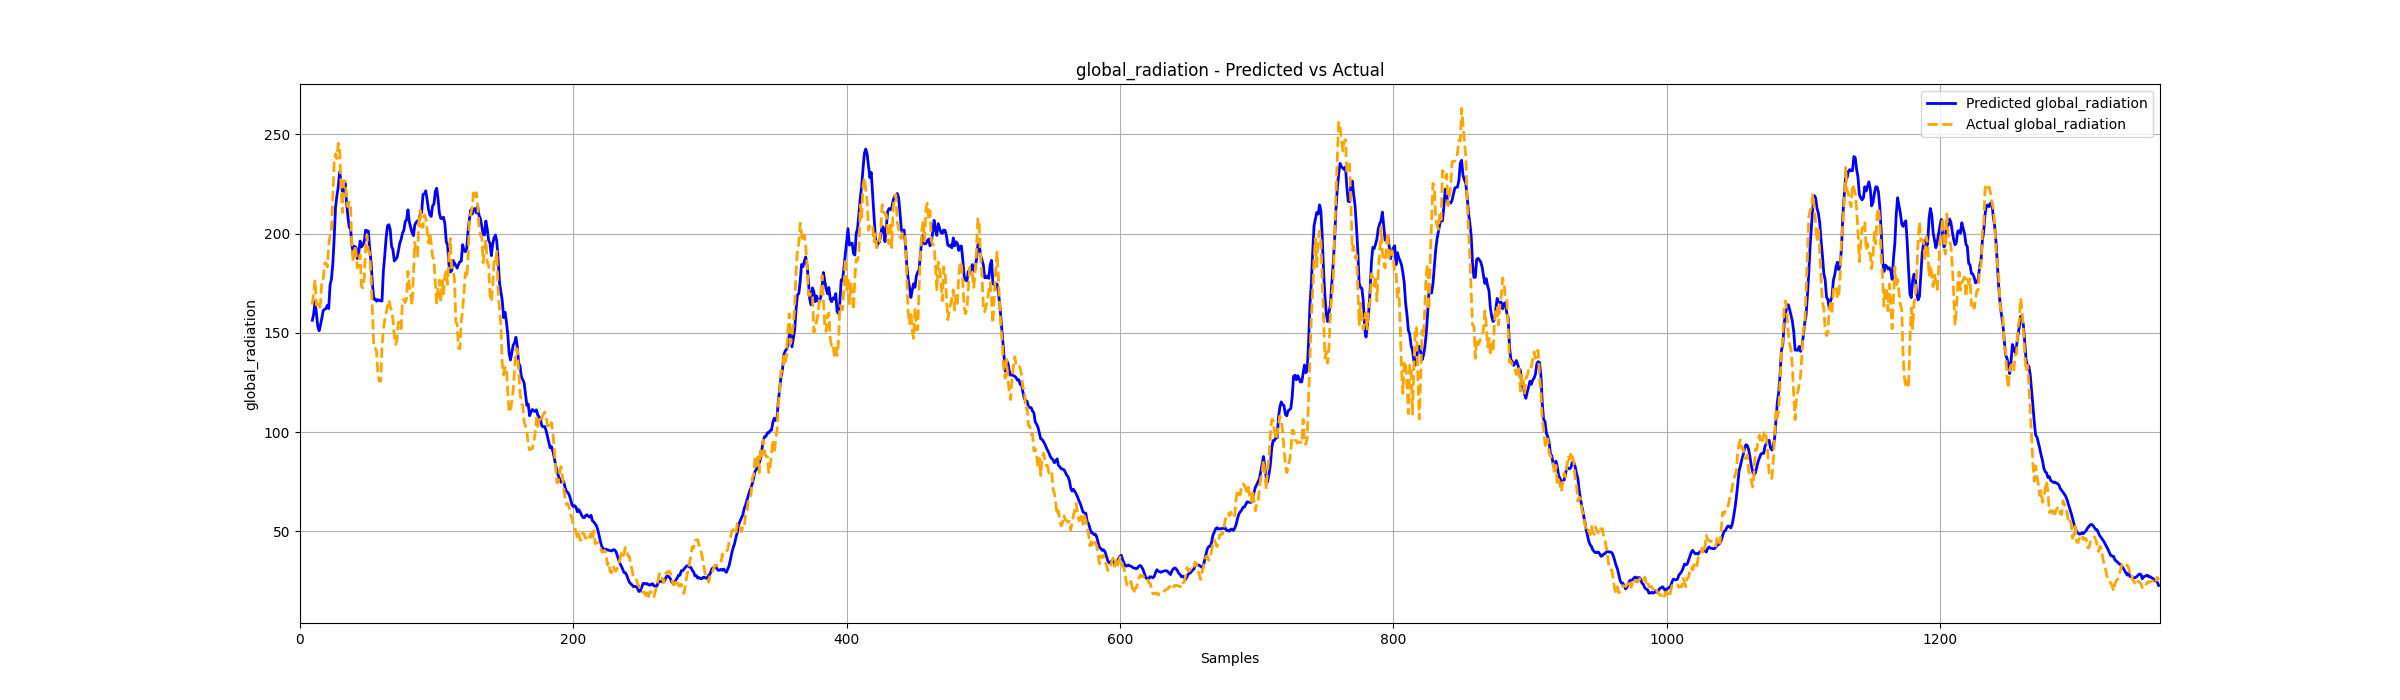
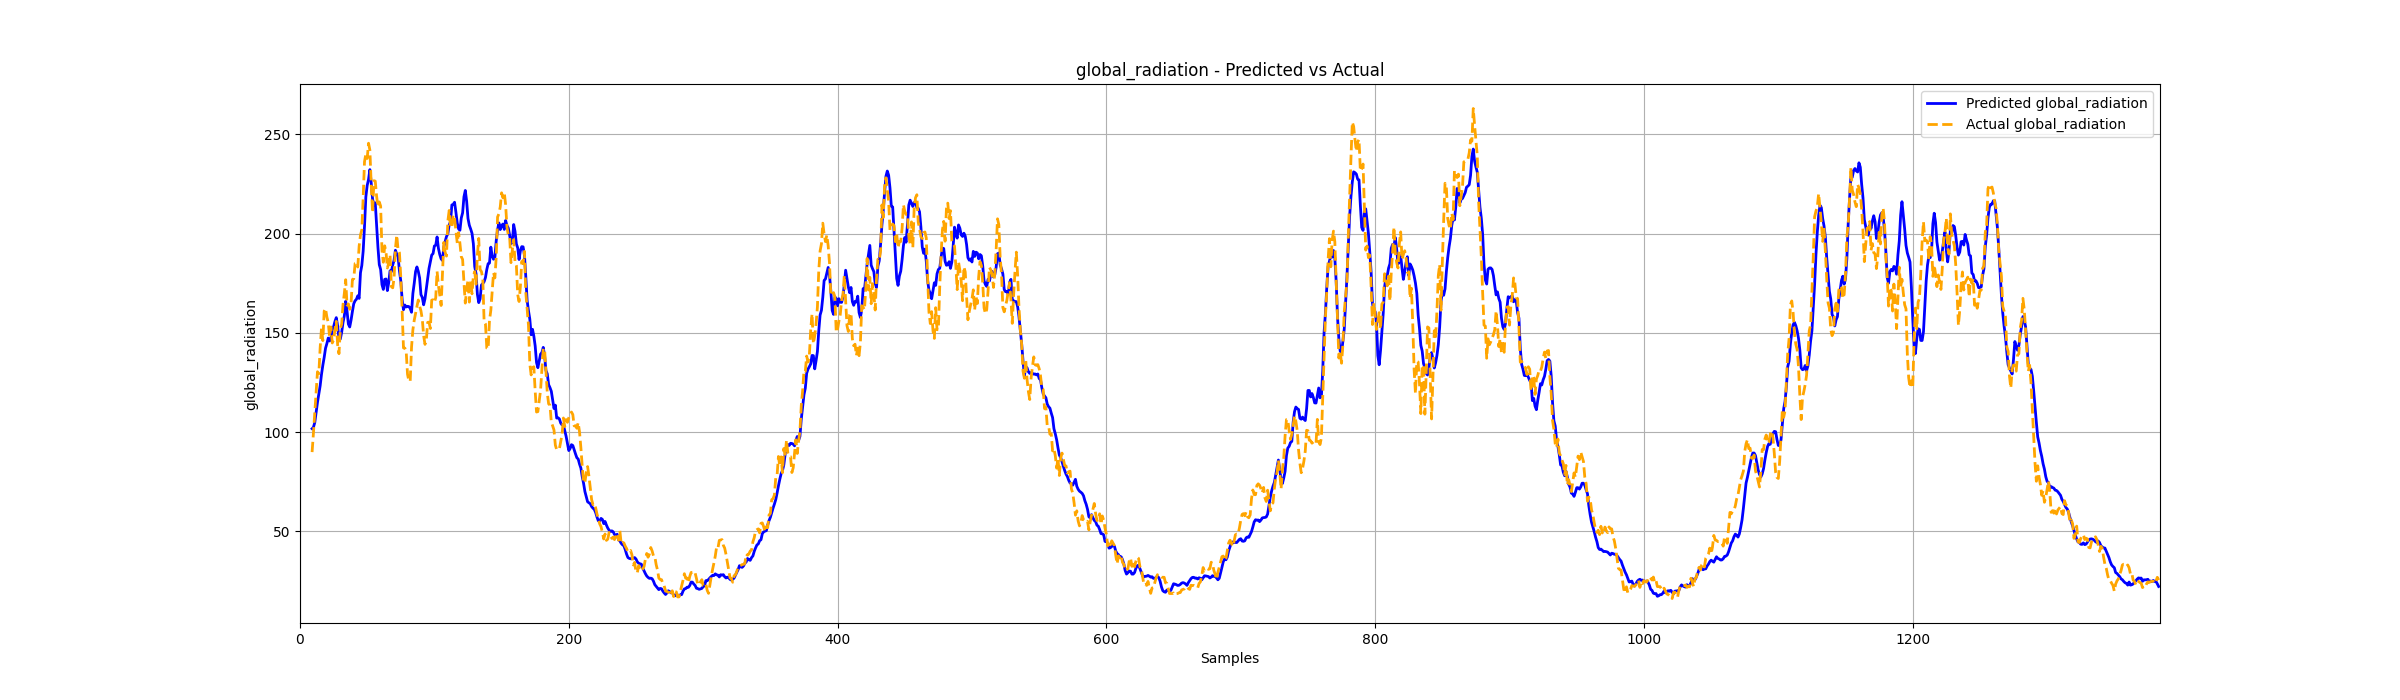
wp - add the two other ways lstm with transformer and the random forest

diff --git a/lstm_with_transformer.py b/lstm_with_transformer.py
@@ -49,6 +49,7 @@ def train_hybrid_model(trainloader,evalloader, testloader, input_dim, hidden_dim
     print(f"You are using: {device}")
     list_train_loss = []
     list_eval_loss = []
+    detection_rates = []
 
     # Initialize model
     model = HybridModel(input_dim=input_dim, hidden_dim=hidden_dim, output_dim=output_dim, num_layers=num_layers, dropout=dropout, num_heads=num_heads, transformer_hidden_dim=transformer_hidden_dim).to(device)
@@ -79,15 +80,40 @@ def train_hybrid_model(trainloader,evalloader, testloader, input_dim, hidden_dim
 
         with torch.no_grad():
             test_loss = 0.0
+            all_outputs = []
+            all_labels = []
             for inputs, labels in evalloader:
                 inputs, labels = inputs.to(device), labels.to(device)
                 outputs = model(inputs)
                 loss = criterion(outputs, labels)
                 test_loss += loss.item()
+                all_outputs.append(outputs.cpu())
+                all_labels.append(labels.cpu())
+
 
             eval_loss = test_loss / len(evalloader.dataset)
             list_eval_loss.append(eval_loss)
-        print(f"Epoch {epoch+1}/{num_epochs}, Train Loss: {epoch_loss:.4f}, Validation Loss: {eval_loss:.4f}")
+
+        # Calculate metrics
+        predictions = torch.cat(all_outputs)
+        actuals = torch.cat(all_labels)
+
+        # Inverse transform predictions and actuals
+        predictions_np = predictions.numpy()
+        actuals_np = actuals.numpy()
+        
+        predictions_inv = scaler.inverse_transform(predictions_np)
+        actuals_inv = scaler.inverse_transform(actuals_np)
+
+        # Convert the inverse-transformed data back to PyTorch tensors
+        predictions_inv_tensor = torch.tensor(predictions_inv)
+        actuals_inv_tensor = torch.tensor(actuals_inv)
+
+        detection_rate, direction_of_error = calculate_metrics(predictions_inv_tensor, actuals_inv_tensor)
+        detection_rates.append(detection_rate)
+
+        print(f"Epoch {epoch+1}/{num_epochs}, Train Loss: {epoch_loss:.4f}, Validation Loss: {eval_loss:.4f} Detection Rate of Extremes: {detection_rate:.4f}")
+
 
     # test model
     model.eval()
@@ -108,18 +134,26 @@ def train_hybrid_model(trainloader,evalloader, testloader, input_dim, hidden_dim
     actuals_inv = scaler.inverse_transform(actuals)
     
     torch.save(model.state_dict(), "weather_lstm_with_transformer.pth")
+    epochs = list(range(1, num_epochs + 1))
+    plot_metrics(epochs, 2, detection_rates)
+    
     plot_prediction_vs_actual(predictions_inv, actuals_inv, features, save_dir="lstm_with_transformer_plots")
+    plot_prediction_vs_actual(predictions_inv, actuals_inv, features, save_dir="lstm_with_transformer_plots", apply_mean=True)
     plot_losses(loss_val=list_eval_loss, loss_train=list_train_loss, save_dir="lstm_with_transformer_plots")
+
+    label_columns =['cloud_cover', 'sunshine', 'global_radiation', 'max_temp', 'mean_temp', 'min_temp', 'pressure']
+    plot_error(predictions, actuals,label_columns, save_dir='lstm_with_transformer_plots')
+
 
 # Parameters
 batch_size = 64
-seq_length = 30
+seq_length = 7
 hidden_dim = 256
 num_layers = 2
 dropout = 0.2
 num_heads = 8
 transformer_hidden_dim = 72
 
-trainloader,evalloader, testloader, scaler, features, input_dim, seq_length = load_weather_data('london_weather.csv', batch_size, seq_length)
+trainloader,evalloader, testloader, scaler, features, input_dim, seq_length = load_weather_data_transformer('london_weather.csv', batch_size, seq_length)
 output_dim = len(features)
 train_hybrid_model(trainloader,evalloader, testloader, input_dim, hidden_dim, output_dim, num_layers, dropout, seq_length, num_heads, transformer_hidden_dim)

diff --git a/Random_forest.py b/Random_forest.py
@@ -3,52 +3,57 @@ from sklearn.model_selection import train_test_split
 from sklearn.metrics import mean_squared_error, r2_score
 import pandas as pd
 import matplotlib.pyplot as plt
+import numpy as np
 from utils import plot_prediction_vs_actual
 
+# Load and preprocess the data
+data = pd.read_csv('london_weather.csv', parse_dates=['date'])
+data.fillna({
+    "cloud_cover": data["cloud_cover"].mode()[0],
+    "global_radiation": data["global_radiation"].mean(),
+    "mean_temp": data["mean_temp"].mean()
+}, inplace=True)
+data.dropna(inplace=True)
+data['date'] = pd.to_datetime(data['date'])
 
-# Load and clean data
-data = pd.read_csv('london_weather.csv')
-data = data.dropna(axis=0)
+# Select relevant features
+features = ['cloud_cover', 'sunshine', 'global_radiation', 'max_temp', 'mean_temp', 'min_temp', 'pressure']
+data = data[features]
 
-# Set the date as input (x)
-x = data[['date']]  # Assuming the 'date' column is numerical or encoded as integers
+# Calculate the indices for splitting (before creating sequences)
+total_len = len(data)
+train_size = int(total_len * 0.85)  # First 85% for training
 
-# Set the weather features as targets (y)
-features = ['cloud_cover', 'sunshine', 'global_radiation', 'max_temp', 'mean_temp', 'min_temp', 'precipitation', 'pressure', 'snow_depth']
-y = data[features]
+# Split the data
+train_data = data[:train_size].values
+test_data = data[train_size:].values
 
-# Split into training and testing sets
-x_train, x_test, y_train, y_test = train_test_split(x, y, train_size=0.70, random_state=0)
+# Create sequences after splitting
+def create_sequences(data, seq_length):
+    X, y = [], []
+    for i in range(len(data) - seq_length):
+        X.append(data[i:i + seq_length].flatten())  # Flatten the sequences for RandomForest input
+        y.append(data[i + seq_length])  # Predict the next timestep's features
+    return np.array(X), np.array(y)
+
+# Sequence length (days)
+sequence_length = 7
+
+X_train, y_train = create_sequences(train_data, sequence_length)
+X_test, y_test = create_sequences(test_data, sequence_length)
 
 # Train a multi-output RandomForestRegressor
 clf = RandomForestRegressor(random_state=0)
-clf.fit(x_train, y_train)
+clf.fit(X_train, y_train)
 
 # Make predictions
-y_pred = clf.predict(x_test)
+y_pred = clf.predict(X_test)
 
-# Evaluate the model for each feature
-for i, feature in enumerate(features):
-    mse = mean_squared_error(y_test[feature], y_pred[:, i])
-    r2 = r2_score(y_test[feature], y_pred[:, i])
-    print(f"Feature: {feature}")
-    print(f"Mean Squared Error: {mse}")
-    print(f"R-squared: {r2}")
-    print()
-
-# Compare predictions with actual values for the first few samples
-comparison = pd.DataFrame(y_pred, columns=features)
-comparison['Date'] = x_test.values  # Add the corresponding date to the prediction output
-print(comparison.head())
-
-# Feature importance plot for predicting weather features
-importances = clf.feature_importances_
-plt.figure(figsize=(10, 6))
-plt.barh(features, importances, color='skyblue')
-plt.xlabel('Feature Importance')
-plt.title('Feature Importance for Predicting Weather Features')
-plt.show()
-
-# Call the plot function for all features
-
+# Plot predictions vs actual values
 plot_prediction_vs_actual(y_pred, y_test, features, save_dir='random_forest_plots')
+
+# Optionally print evaluation metrics
+mse = mean_squared_error(y_test, y_pred)
+r2 = r2_score(y_test, y_pred)
+print(f'Mean Squared Error: {mse}')
+print(f'R^2 Score: {r2}')
